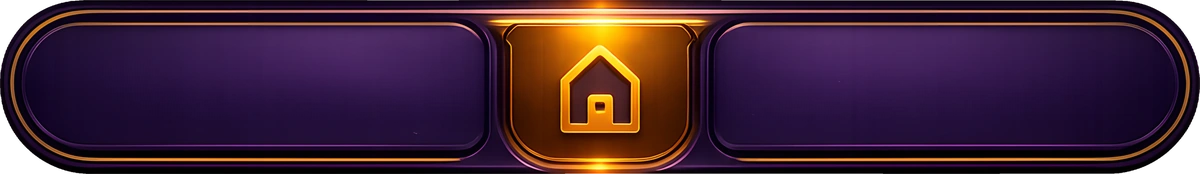
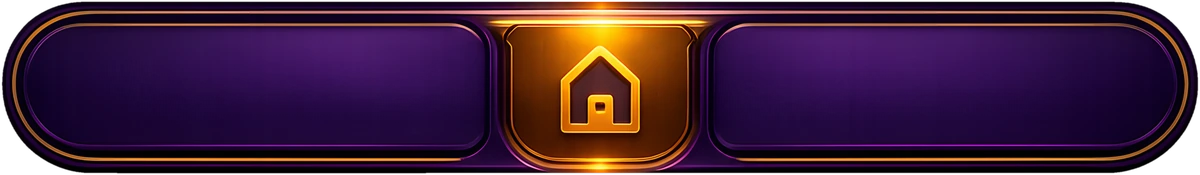
v2.7.1: nieuwe onderbalk
De balk-art uit de UI-map vervangen. De maten zijn OPNIEUW uitgemeten op het
nieuwe bestand en niet overgenomen: het linkervak loopt van 1,9 tot 40,7 procent
en het rechter van 59,4 tot 98,1, met hun hartlijn op 50,3. De verhouding ging
van 1200 op 174 naar 3955 op 578, en dat verschil zie je terug in de plaatsing
van de pictogrammen.

Ook hier zat een witte omtrek in het bestand, dezelfde als bij de profielsectie,
en die is er op dezelfde manier af gehaald.

diff --git a/frontend/src/components/BottomNav.tsx b/frontend/src/components/BottomNav.tsx
@@ -24,9 +24,12 @@ export type NavKey = "shop" | "leaderboard" | "home" | "friends" | "profile";
 // De art heeft twee verzonken vakken en in het midden een gouden penning met
 // het huisje er al in getekend. Elk vak krijgt twee pictogrammen, het huisje
 // komt uit de art. Vandaar vijf posities waarvan er maar vier iets tekenen.
-const SLOTS = [11.8, 31.7, 50, 68.3, 88.2];
-const WELL_Y = 50.5; // verticale hartlijn van de vakken
-const PLATE_RATIO = "1200 / 174";
+// Opnieuw uitgemeten op de nieuwe art: het linkervak loopt van 1,9 tot 40,7
+// procent, het rechter van 59,4 tot 98,1, en beide hebben hun hartlijn op 50,3.
+// Twee pictogrammen per vak, dus op een kwart en driekwart van elk vak.
+const SLOTS = [11.6, 31.0, 50, 69.1, 88.4];
+const WELL_Y = 50.3; // verticale hartlijn van de vakken
+const PLATE_RATIO = "3955 / 578";
 const GAP = 8; // hoe hoog de plaat boven de onderrand zweeft
 
 export function BottomNav({

diff --git a/frontend/public/sw.js b/frontend/public/sw.js
@@ -10,7 +10,7 @@
 //    briefly-stale shell can still boot from cache instead of going black.
 //  - Every activation purges ALL old caches (drops any poisoned shell).
 // Never touches the WebSocket or the API.
-const CACHE = "penneer-v40"; // v40: gedeelde zeshoek-art overal
+const CACHE = "penneer-v41"; // v41: nieuwe onderbalk
 
 self.addEventListener("install", () => {
   self.skipWaiting();

diff --git a/frontend/src/version.ts b/frontend/src/version.ts
@@ -1,2 +1,2 @@
 // Bump per user-facing release. Shown in Settings > About.
-export const APP_VERSION = "2.7.0";
+export const APP_VERSION = "2.7.1";
